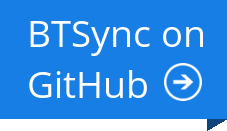
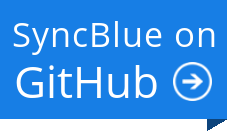
Website update

Changed region(s): [[0.0617, 0.458, 0.9559, 0.7939], [0.0617, 0.1527, 0.9559, 0.4275]]

diff --git a/index.html b/index.html
@@ -5,7 +5,7 @@
 <link rel="stylesheet" href="site/style/main.css" type="text/css"/>
 <link rel="icon" type="image/vnd.microsoft.icon" href="site/images/icon.ico"/>
 <meta content="index, follow" name="robots"/>
-<title>BTSync - Cloudless file synchronization</title>
+<title>SyncBlue - Cloudless file synchronization</title>
 </head>
 <body>
     <div id= "container">
@@ -15,7 +15,7 @@
                 </div>
                 <div id="title">
                     <a href="#">
-                        <h1>BTSync</h1>
+                        <h1>SyncBlue</h1>
                         <h2>Cloud-less, cross-platform file synchronization</h2>
                     </a>
                 </div>
@@ -26,19 +26,21 @@
             </nav>
         </div>
         <div id="content">
-            <div class="column" id="colleft">  
+            <div class="column" id="colleft">
+                <a href="#news"><img src="site/images/banner_menu_news.png"/></a>
+                <a href="#about"><img src="site/images/banner_menu_about.png"/></a>
                 </div
                 ><div class="column" id="colmid">
                 <div id="wrapper">
-                <h2>News</h2>
+                <a name="news"><h2>News</h2></a>
                 <h3>Beta released</h3>
                 <p>A public beta for Windows 7/8/8.1 has been released and can be downloaded <a href="site/download.html">here</a>.</p>
-                <h2>About</h2>
-                <p>BTSync is an open-source project with the aim of developing a utility for keeping files and folders synchronized across devices of various platforms without relying on the cloud.
-                Using Bluetooth technology and the OBEX File Transfer protocol, BTSync allows the automatic synchronization of files, folders and folder hierarchies between a computer running Microsoft
+                <a name="about"><h2>About</h2></a>
+                <p>SyncBlue is an open-source project with the aim of developing a utility for keeping files and folders synchronized across devices of various platforms without relying on the cloud.
+                Using Bluetooth technology and the OBEX File Transfer protocol, SyncBlue allows the automatic synchronization of files, folders and folder hierarchies between a computer running Microsoft
                 Windows or Mac OS X and a Bluetooth-enabled device of any operating system or manufacturer, provided it supports OBEX file transfer.
                 </p>
-                <p>The source code (Python for Windows; Objective-C for Mac OS X) can be found on BTSync's <a href="https://github.com/benjaminalt/btsync">GitHub page</a>.</p>
+                <p>The source code (Python for Windows; Objective-C for Mac OS X) can be found on SyncBlue's <a href="https://github.com/benjaminalt/btsync">GitHub page</a>.</p>
                 </div>
                 </div
                 ><div class="column" id="colright">
@@ -48,7 +50,7 @@
             <div id="copyright">
                 <p>Copyright 2015 Benjamin Alt &amp Olivier Sirello</p>
             </div>
-            <div id="contactEtc"><a href="site/contact.html">Contact us</a>|<a href="https://github.com/benjaminalt/btsync">BTSync on GitHub</a>
+            <div id="contactEtc"><a href="site/contact.html">Contact</a>|<a href="https://github.com/benjaminalt/btsync">SyncBlue on GitHub</a>
             </div>
         </div>
     </div>

diff --git a/site/style/main.css b/site/style/main.css
@@ -7,11 +7,16 @@ html, body{
     background: url(../images/faux_columns.PNG), repeat-y;
     background-size: contain;
 }
+
 #container{
     position:relative;
     min-height:100%;
 }
 a{
+    text-decoration: none;
+}
+
+a p{
     color: #177EE5;
     text-decoration: none;
 }
@@ -102,6 +107,13 @@ h2{
 }
 #colleft{
     width: 15%;
+    vertical-align: top;
+    padding-top: 10px;
+}
+#colleft img{
+    width: 75%;
+    height: auto;
+    padding: 20px 0 0 0;
 }
 #colmid{
     width: 83.75%;
